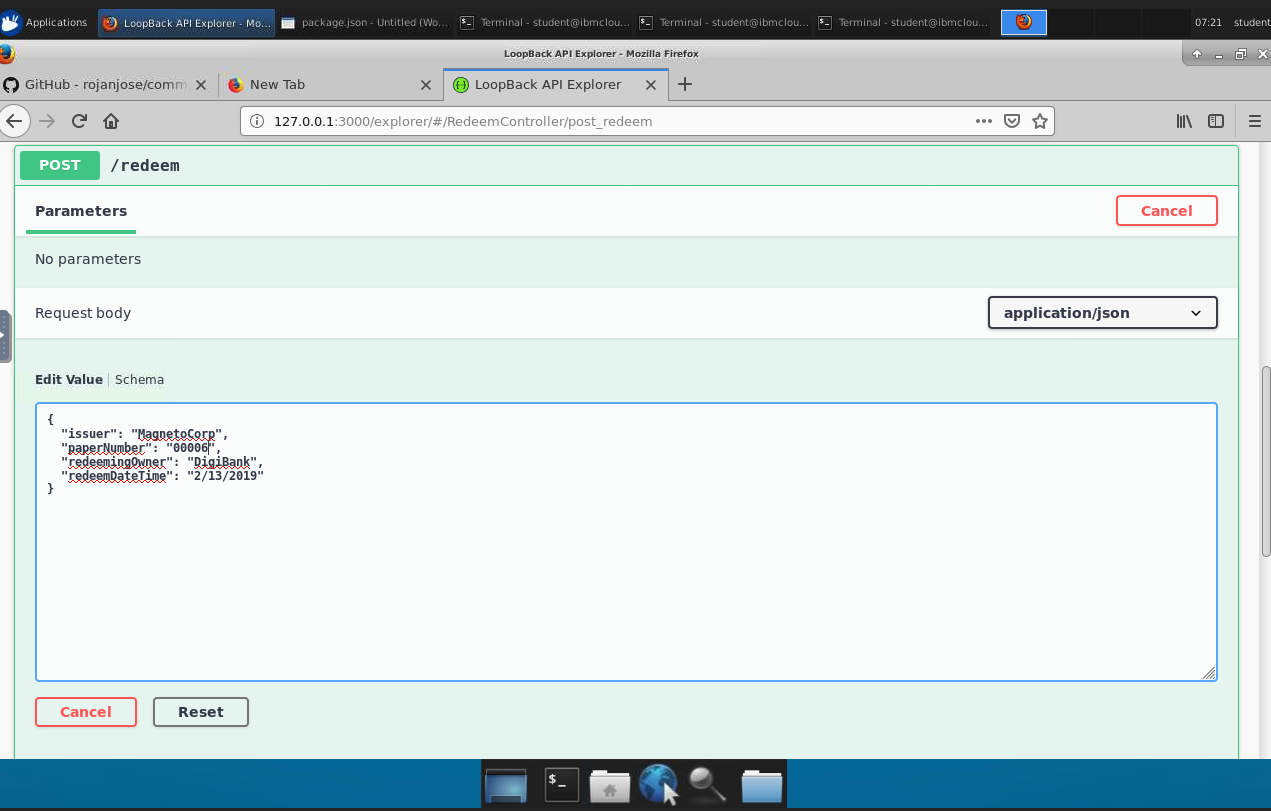
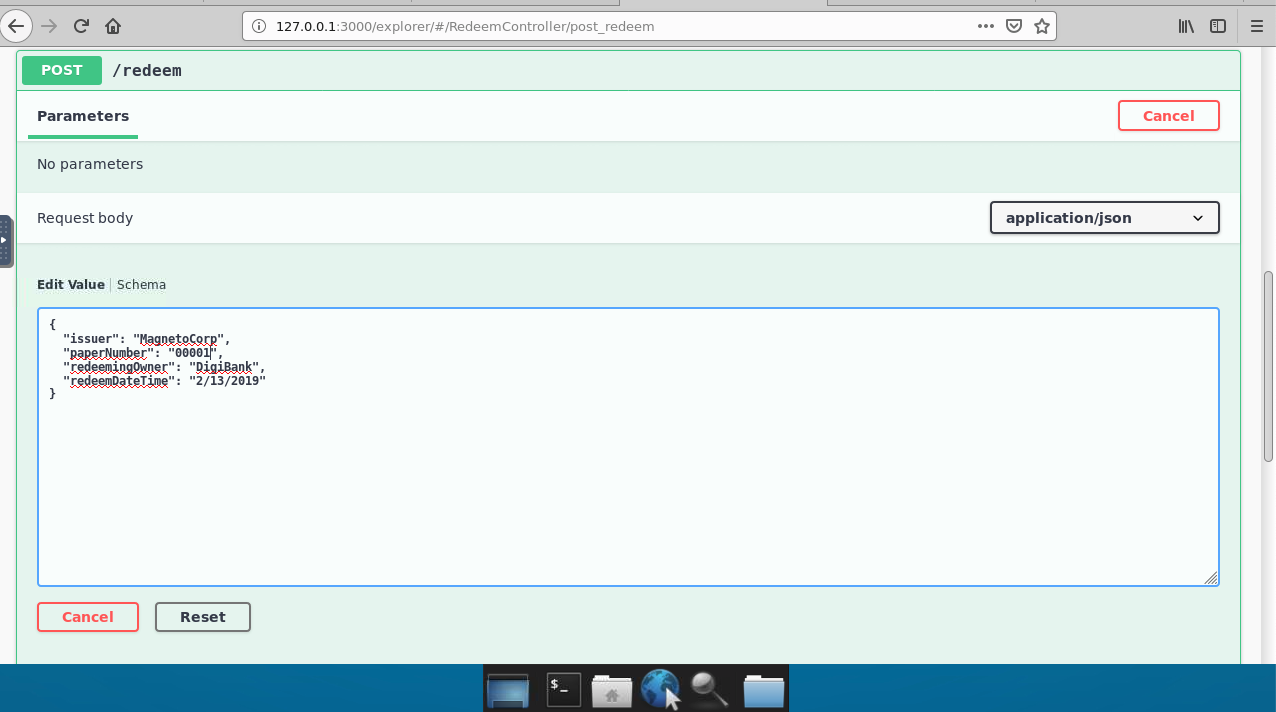
add query alll

Changed region(s): [[0.0, 0.0, 1.0, 0.8961], [0.0, 0.927, 1.0, 1.0], [0.583, 0.9888, 1.0, 1.0]]

diff --git a/README.md b/README.md
@@ -132,11 +132,23 @@ Copy and paste the following JSON in the request body:
 
 {
   "issuer": "MagnetoCorp",
-  "paperNumber": "00006",
+  "paperNumber": "00001",
   "redeemingOwner": "DigiBank",
   "redeemDateTime": "2/13/2019"
 }
 
 Click on `Execute`.
+
+Your response should look something like this: 
+![Loopback App](images/response.png)
+
+Now, run `node query.js`. You should see that the current state of the 
+paper is now in state 3, which means it is now redeemed. 
+![Loopback App](images/queryAll2.png)
+
+
+Congrats! You now know how to use a client app based on TypeScript to 
+invoke a contract that was deployed locally using Docker on VSCode! 
+
 
 
